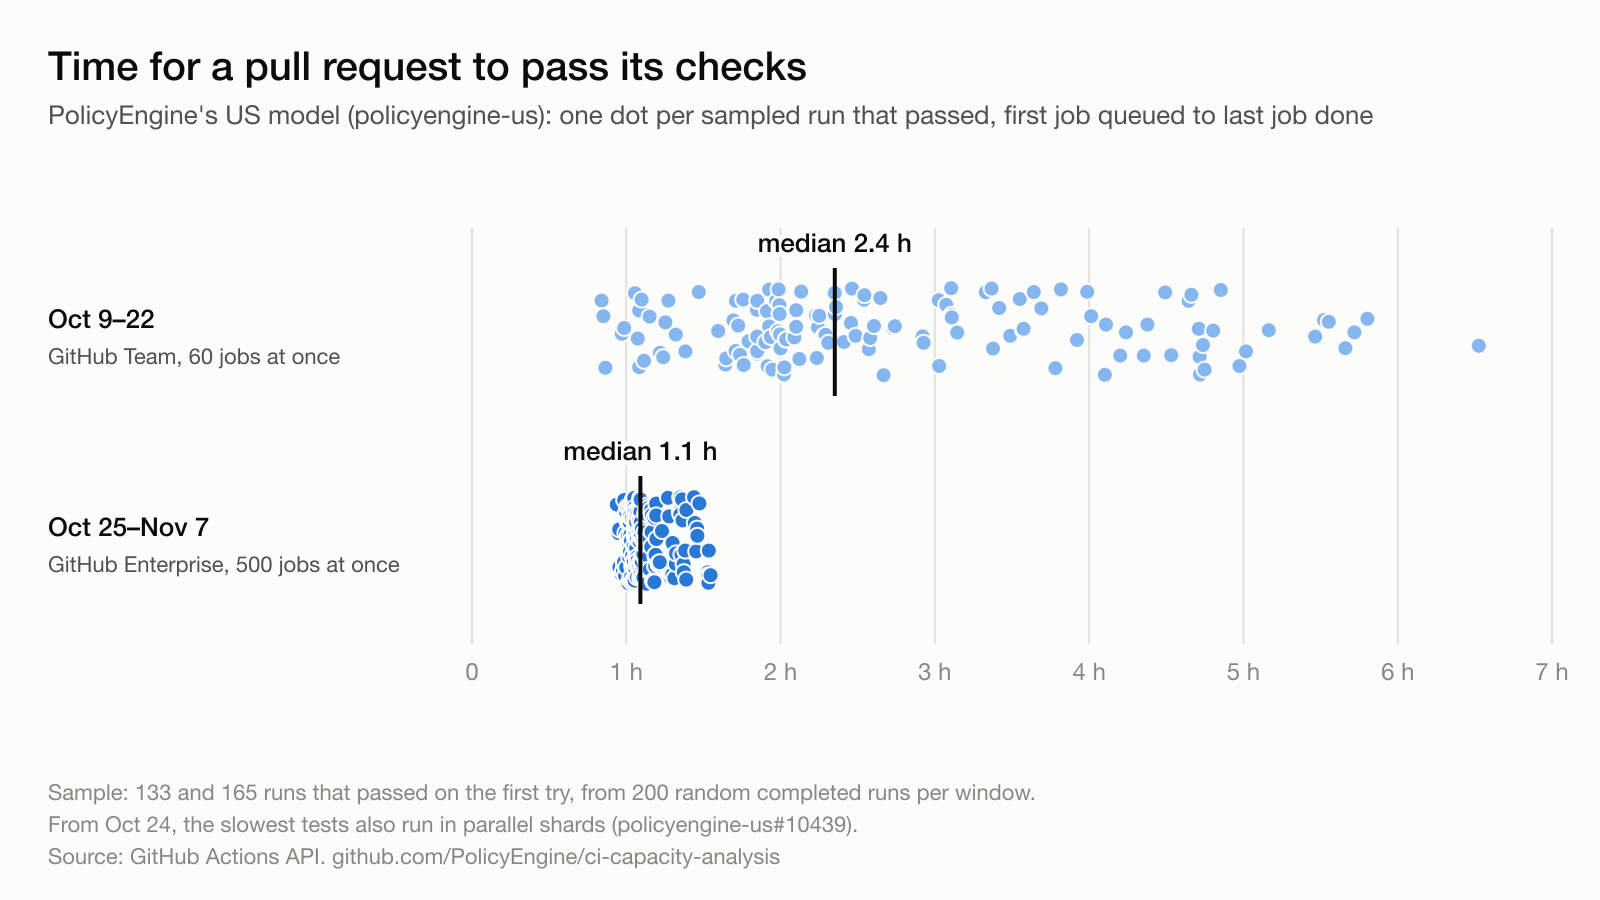
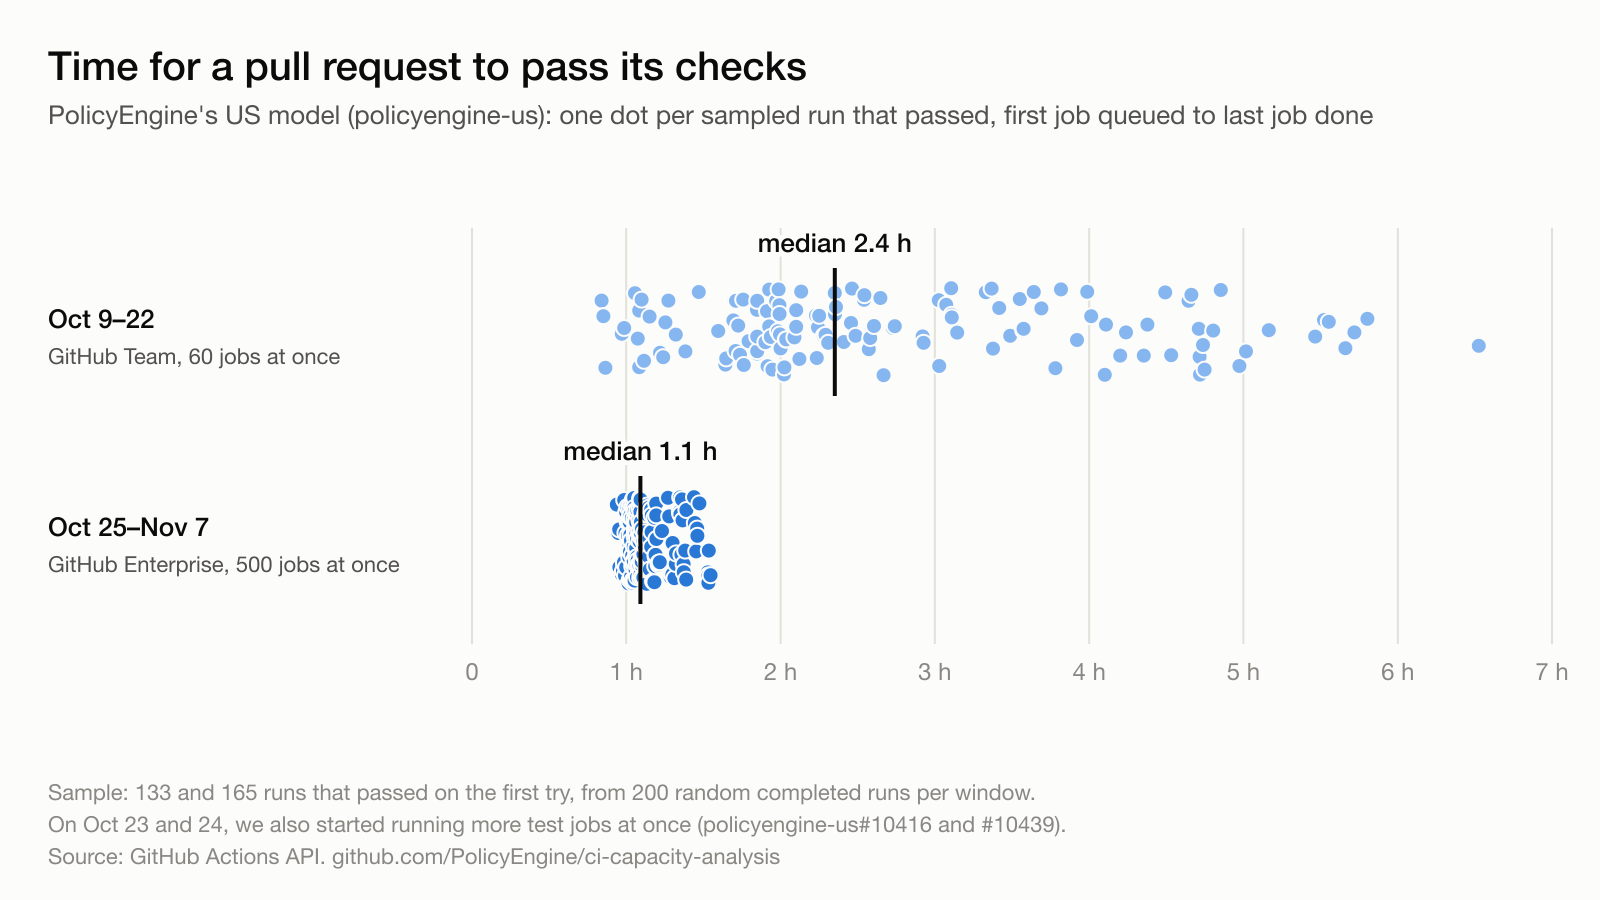
Credit all three CI changes and split job waits by capped suite
Between the windows, policyengine-us#10416 also removed the max-parallel
caps that #10231 had set on Oct 15, so three changes separate the
windows, not two. The README now lists all three and splits job waits
into the Baseline and Contrib suites against every other job, with the
before window split at #10231's merge. Uncapped jobs waited too, and
before any cap the suites' jobs already waited a median 18.7 minutes.

metrics.job_waits takes an optional job filter. A property test checks
that the suite split partitions each run's waits; it and a job-name test
kill six planted mutants.

Changed region(s): [[0.0312, 0.9022, 0.6562, 0.9333]]

diff --git a/scripts/analyze_ci.py b/scripts/analyze_ci.py
@@ -7,6 +7,9 @@ Input: data/us_pr_runs_sample.csv, data/us_pr_jobs_sample.csv and data/us_pr_fra
   every attempt-one job success or skipped), first job created to last job completed.
 Intervals: 95% percentile bootstrap over sampled runs (2,000 draws, seeded), so job waits
 inside one run stay together.
+Waits also split by suite: jobs in the Baseline and Contrib matrices, which policyengine-us#10231
+capped at six jobs at a time from 2026-10-15T16:46Z until #10416 removed the caps, against every
+other job; the before window also splits at #10231's merge, by when each run was created.
 Writes data/us_pr_ci_summary.json and prints a table.
 """
 
@@ -19,7 +22,18 @@ import sys
 HERE = os.path.dirname(os.path.abspath(__file__))
 ROOT = os.path.dirname(HERE)
 sys.path.insert(0, HERE)
-from metrics import bootstrap_median, job_waits, median, quantile, strict_success, wall  # noqa: E402
+from metrics import (  # noqa: E402
+    bootstrap_median,
+    in_capped_suite,
+    job_waits,
+    median,
+    quantile,
+    strict_success,
+    t,
+    wall,
+)
+
+CAPS_SET = "2026-10-15T16:46:11Z"  # policyengine-us#10231 merged
 
 
 def load():
@@ -51,6 +65,19 @@ def frame_summary(window):
             "success_or_failure_per_day": (by["success"] + by["failure"]) / len(rows)}
 
 
+def wait_stats(runs, keep=None):
+    xs = [w for r in runs for w in job_waits(r, keep)]
+    return {"runs": len(runs), "jobs": len(xs), "median": median(xs), "p90": quantile(xs, 0.9)}
+
+
+def wait_by_suite(runs):
+    return {
+        "all_jobs": wait_stats(runs),
+        "capped_suites": wait_stats(runs, in_capped_suite),
+        "other_jobs": wait_stats(runs, lambda j: not in_capped_suite(j)),
+    }
+
+
 def window_summary(runs):
     waits_by_run = [job_waits(r) for r in runs]
     waits = [w for ws in waits_by_run for w in ws]
@@ -70,6 +97,7 @@ def window_summary(runs):
                                   "p90": quantile(walls, 0.9), "min": min(walls) if walls else None,
                                   "max": max(walls) if walls else None},
         "passing_check_minutes_all": sorted(walls),
+        "wait_by_suite": wait_by_suite(runs),
     }
 
 
@@ -78,6 +106,11 @@ def main():
     out = {}
     for name in ("before", "after"):
         out[name] = {"frame": frame_summary(name), **window_summary([r for r in runs if r["window"] == name])}
+    before = [r for r in runs if r["window"] == "before"]
+    out["before"]["wait_by_cap_period"] = {
+        "runs_created_before_caps": wait_by_suite([r for r in before if t(r["created_at"]) < t(CAPS_SET)]),
+        "runs_created_with_caps": wait_by_suite([r for r in before if t(r["created_at"]) >= t(CAPS_SET)]),
+    }
     b, a = out["before"], out["after"]
     out["ratios"] = {
         "passing_check_median_before_over_after": b["passing_check_minutes"]["median"] / a["passing_check_minutes"]["median"],
@@ -95,6 +128,11 @@ def main():
         pc = w["passing_check_minutes"]
         print(f"  passing check min ({w['strict_success_runs']} runs): median {pc['median']:.1f} "
               f"(95% CI {pc['median_95ci'][0]:.1f}-{pc['median_95ci'][1]:.1f}) p25 {pc['p25']:.1f} p75 {pc['p75']:.1f} p90 {pc['p90']:.1f}")
+        for k, v in w["wait_by_suite"].items():
+            print(f"  wait {k}: {v['jobs']} jobs, median {v['median']:.2f} p90 {v['p90']:.2f}")
+    for period, split in out["before"]["wait_by_cap_period"].items():
+        print(f"before, {period}: " + "; ".join(
+            f"{k} {v['runs']} runs {v['jobs']} jobs median {v['median']:.2f} p90 {v['p90']:.2f}" for k, v in split.items()))
     print("ratios", {k: round(v, 2) for k, v in out["ratios"].items()})
 
 

diff --git a/tests/test_metrics.py b/tests/test_metrics.py
@@ -7,7 +7,8 @@ Invariants:
 - jobs from later attempts, or with no runner, never change waits or wall time;
 - a run with a failed attempt-one job, or a non-success conclusion, is never a strict success;
 - nearest-rank quantiles rise with p and stay within the data's range;
-- the bootstrap interval is ordered, inside the data's range, and the same for the same seed.
+- the bootstrap interval is ordered, inside the data's range, and the same for the same seed;
+- splitting a run's waits into the capped suites and every other job loses and adds no wait.
 Differential: metrics.py matches the wait and wall definitions of analyze_post_upgrade.py in the
 2026-10-24 internal report, transcribed below as the reference.
 """
@@ -36,7 +37,10 @@ def jobs(draw, shift=0):
     duration = draw(st.integers(0, 400))
     runner = draw(st.booleans())
     return {
-        "name": draw(st.sampled_from(["Lint", "Test (1)", "Test (2)", "Contrib", "Baseline"])),
+        "name": draw(st.sampled_from([
+            "Lint", "Test (1)", "Test (2)", "Contrib", "Baseline",
+            "Baseline tests / Full Suite - Baseline (irs)", "Contrib tests / Full Suite - Contrib (congress)",
+        ])),
         "status": "completed",
         "conclusion": draw(st.sampled_from(["success", "skipped", "failure", "cancelled"])),
         "run_attempt": draw(st.sampled_from([1, 1, 1, 2])),
@@ -98,6 +102,24 @@ def test_strict_success_excludes_failures(run):
     failed = dict(run, jobs=run["jobs"] + [dict(run["jobs"][0], run_attempt=1, conclusion="failure")]) if run["jobs"] else None
     if failed:
         assert not metrics.strict_success(failed)
+
+
+@given(runs)
+def test_suite_split_partitions_the_waits(run):
+    capped = metrics.job_waits(run, metrics.in_capped_suite)
+    other = metrics.job_waits(run, lambda j: not metrics.in_capped_suite(j))
+    assert sorted(capped + other) == sorted(metrics.job_waits(run))
+    assert len(capped) == sum(1 for j in run["jobs"] if metrics.ran(j) and metrics.in_capped_suite(j))
+
+
+def test_capped_suites_match_the_workflow_job_names():
+    for name in ("Baseline tests / Full Suite - Baseline (states-shard-1)",
+                 "Contrib tests / Full Suite - Contrib (congress)"):
+        assert metrics.in_capped_suite({"name": name})
+    for name in ("Python tests / Full Suite - Microsimulation", "PR validation (lock, guard tests, lint, changelog)",
+                 "Python tests / Full Suite - Rest (Python shard 3)", "Contrib", "Baseline", ""):
+        assert not metrics.in_capped_suite({"name": name})
+    assert not metrics.in_capped_suite({})
 
 
 values = st.lists(st.floats(0, 1e4, allow_nan=False), min_size=1, max_size=200)

diff --git a/scripts/metrics.py b/scripts/metrics.py
@@ -4,7 +4,10 @@ All times are ISO 8601 strings from the GitHub Actions REST API, in UTC.
 - job wait: started_at - created_at, for attempt-one jobs that got a runner;
 - strict success: run conclusion success on attempt 1, every attempt-one job success or skipped;
 - run wall time: last attempt-one job completed_at - first attempt-one job created_at,
-  over jobs that got a runner.
+  over jobs that got a runner;
+- capped suites: the Baseline and Contrib matrix jobs. policyengine-us#10231 let each of those
+  suites run at most six jobs at a time from 2026-10-15T16:46Z, until #10416 removed the caps
+  at 2026-10-23T22:05Z.
 """
 
 import datetime as dt
@@ -27,8 +30,20 @@ def ran(job):
     )
 
 
-def job_waits(run):
-    return [minutes(j["created_at"], j["started_at"]) for j in run.get("jobs") or [] if ran(j)]
+def job_waits(run, keep=None):
+    """Waits in minutes of the run's attempt-one jobs that got a runner; keep(job) narrows the jobs."""
+    return [
+        minutes(j["created_at"], j["started_at"])
+        for j in run.get("jobs") or []
+        if ran(j) and (keep is None or keep(j))
+    ]
+
+
+CAPPED_SUITES = ("Baseline tests", "Contrib tests")
+
+
+def in_capped_suite(job):
+    return (job.get("name") or "").startswith(CAPPED_SUITES)
 
 
 def strict_success(run):

diff --git a/scripts/charts.py b/scripts/charts.py
@@ -127,7 +127,7 @@ def check_time():
     notes = [
         f"Sample: {s['before']['strict_success_runs']} and {s['after']['strict_success_runs']} runs that passed on the first try, "
         f"from 200 random completed runs per window.{edge}",
-        "From Oct 24, the slowest tests also run in parallel shards (policyengine-us#10439).",
+        "On Oct 23 and 24, we also started running more test jobs at once (policyengine-us#10416 and #10439).",
         "Source: GitHub Actions API. github.com/PolicyEngine/ci-capacity-analysis",
     ]
     for i, n in enumerate(notes):

diff --git a/README.md b/README.md
@@ -32,19 +32,28 @@ PolicyEngine and Axiom merged 3,399 pull requests in October 2026, 16 times as m
 | Time to pass, median (95% interval) | 141 min (126–156) | 65.5 min (64.4–66.7) |
 | Time to pass, 25th–75th percentile | 111–218 min | 63–71 min |
 
-Two changes separate the windows, and this analysis doesn't split the gain between them:
+Three changes separate the windows, and this analysis doesn't split the gain among them:
 
 - When PolicyEngine moved to Enterprise Cloud, GitHub raised its limit from 60 to 500 jobs at once on standard runners ([GitHub's Actions limits](https://docs.github.com/en/actions/reference/limits)). The organization's plan first read `enterprise` at 16:25 UTC on October 23.
-- [policyengine-us#10439](https://github.com/PolicyEngine/policyengine-us/pull/10439), merged at 01:30 UTC on October 24, split the slowest Python tests across parallel jobs.
+- In [policyengine-us#10416](https://github.com/PolicyEngine/policyengine-us/pull/10416), merged at 22:05 UTC on October 23, Ziming Hua removed caps that held each pull request's Baseline and Contrib test suites to six jobs at a time. He had added them on October 15, in [policyengine-us#10231](https://github.com/PolicyEngine/policyengine-us/pull/10231), to share the organization's 60 runners among pull requests.
+- In [policyengine-us#10439](https://github.com/PolicyEngine/policyengine-us/pull/10439), merged at 01:30 UTC on October 24, he moved the Rest Python tests, the longest path through CI, from two runners in sequence to parallel shards that a planning job balances from recent test timings.
 
 The comparison leaves out October 23 and 24.
+
+Jobs outside the Baseline and Contrib suites never had a cap, and they waited too. Before the caps, Baseline and Contrib jobs already waited a median 18.7 minutes:
+
+| Job wait for a runner, median (90th percentile) | Baseline and Contrib jobs | Every other job |
+|---|---:|---:|
+| Oct 9–22, 110 runs created before #10231 merged | 18.7 min (89.5) | 4.2 min (56.8) |
+| Oct 9–22, 90 runs created after it merged | 34.6 min (98.4) | 11.3 min (45.8) |
+| Oct 25–Nov 7, 200 runs | 3 s (4 s) | 3 s (4 s) |
 
 ### Definitions
 
 [`scripts/metrics.py`](scripts/metrics.py) holds every definition, and the property-based tests in [`tests/`](tests) check them.
 
 - The population covers runs of `.github/workflows/pr.yaml` on `pull_request` events that completed as success or failure. A seeded generator draws 200 of them per window. Cancelled runs (usually a newer push replacing an older one) and skipped runs (draft pull requests) stay out of the sample; [`data/us_pr_frame_daily.csv`](data/us_pr_frame_daily.csv) counts them by day.
-- A job's wait runs from GitHub creating the job to a runner starting it, for first-attempt jobs that got a runner.
+- A job's wait runs from GitHub creating the job to a runner starting it, for first-attempt jobs that got a runner. GitHub creates every job of a test suite at once, so until #10416 the later jobs of a capped suite also waited here for earlier ones to finish.
 - A run's time to pass runs from its first job's creation to its last job's completion, for runs that succeeded on the first attempt with every job passing or skipped.
 - A percentile bootstrap that resamples runs (2,000 draws) gives the 95% intervals, so the jobs of one run stay together.
 
